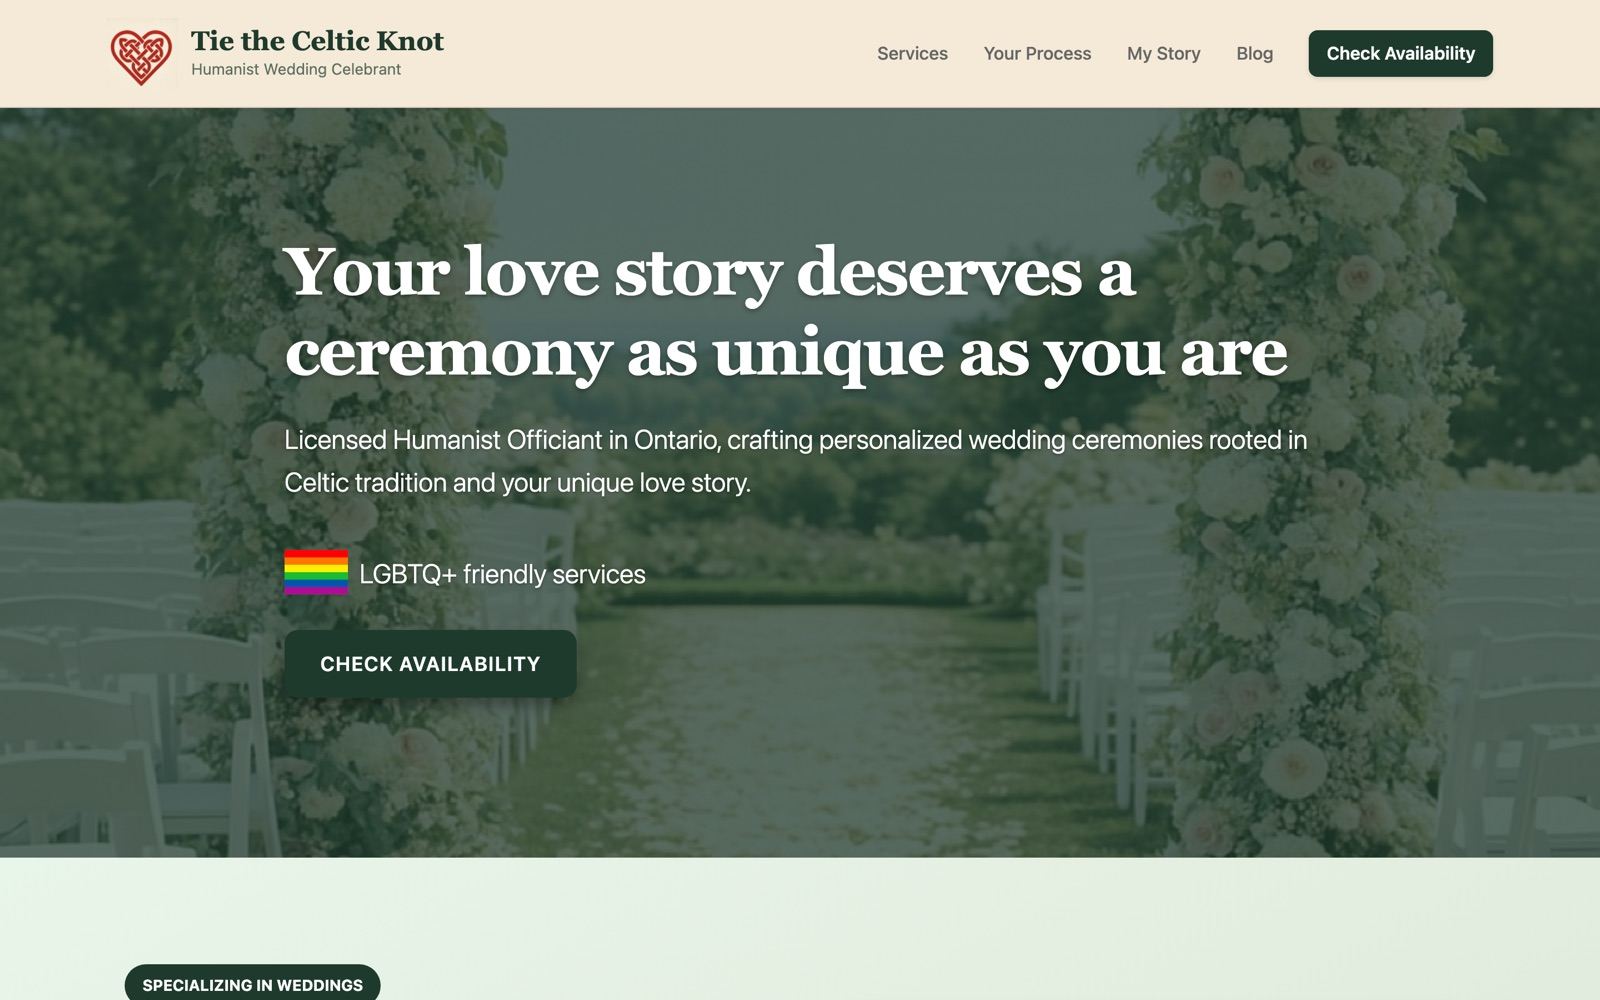
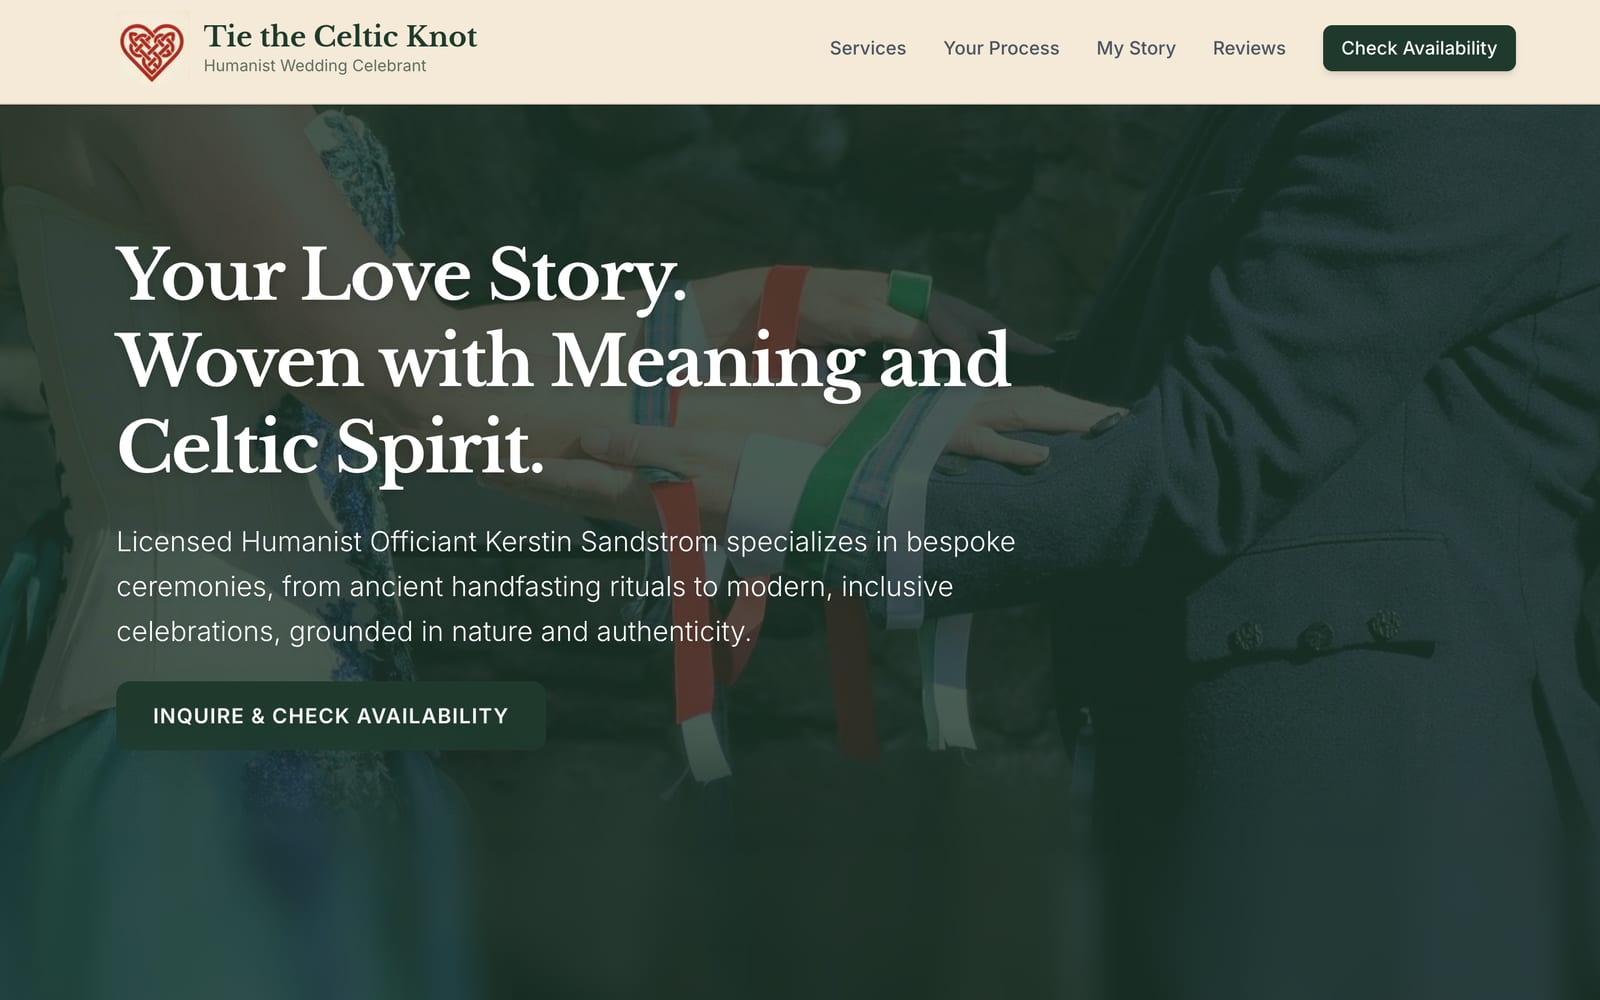
Celtic Knot: su diseño original (sin la bandera que añadió la clienta); años en los casos (Elemental 2025–2026, celebrante 2025, pintor 2024)

diff --git a/lib/data/caseStudies.ts b/lib/data/caseStudies.ts
@@ -87,7 +87,7 @@ export const caseStudies: CaseStudy[] = [
     title: "Elemental Kids Club - Landing Page Educativa",
     client: "Elemental Kids Club",
     industry: "Educación Infantil",
-    year: "2024",
+    year: "2025–2026",
     url: "https://elementalkidsclub.com",
     thumbnail: "/images/projects/elemental-kids-club.jpg",
     excerpt: "Landing page optimizada para vender libros de actividades educativas infantiles con sistema de lead generation mediante bonus descargable.",

diff --git a/app/casos/[slug]/page.tsx b/app/casos/[slug]/page.tsx
@@ -54,7 +54,7 @@ export default async function CaseStudyPage({ params }: { params: Promise<{ slug
         <div className="mt-10 grid items-center gap-12 lg:grid-cols-[1fr_1.1fr]">
           <div>
             <p className="etiqueta">
-              {h.nombre} · {caso.industry}
+              {h.nombre} · {caso.industry} · {caso.year}
             </p>
             <h1 className="mt-4 font-serif text-4xl leading-[1.05] sm:text-5xl">{h.pregunta}</h1>
             {caso.url && (

diff --git a/components/Projects.tsx b/components/Projects.tsx
@@ -1,6 +1,6 @@
 import Portatil from "@/components/Portatil";
 
-// En el orden que pidió Magdalena (29 sep 2026): Elemental, la celebrante y el pintor, que es el último
+// Del más reciente al más antiguo (29 sep 2026): Elemental 2025–26, la celebrante 2025, el pintor 2024
 const trabajos = [
   {
     nombre: "Elemental Kids Club",
